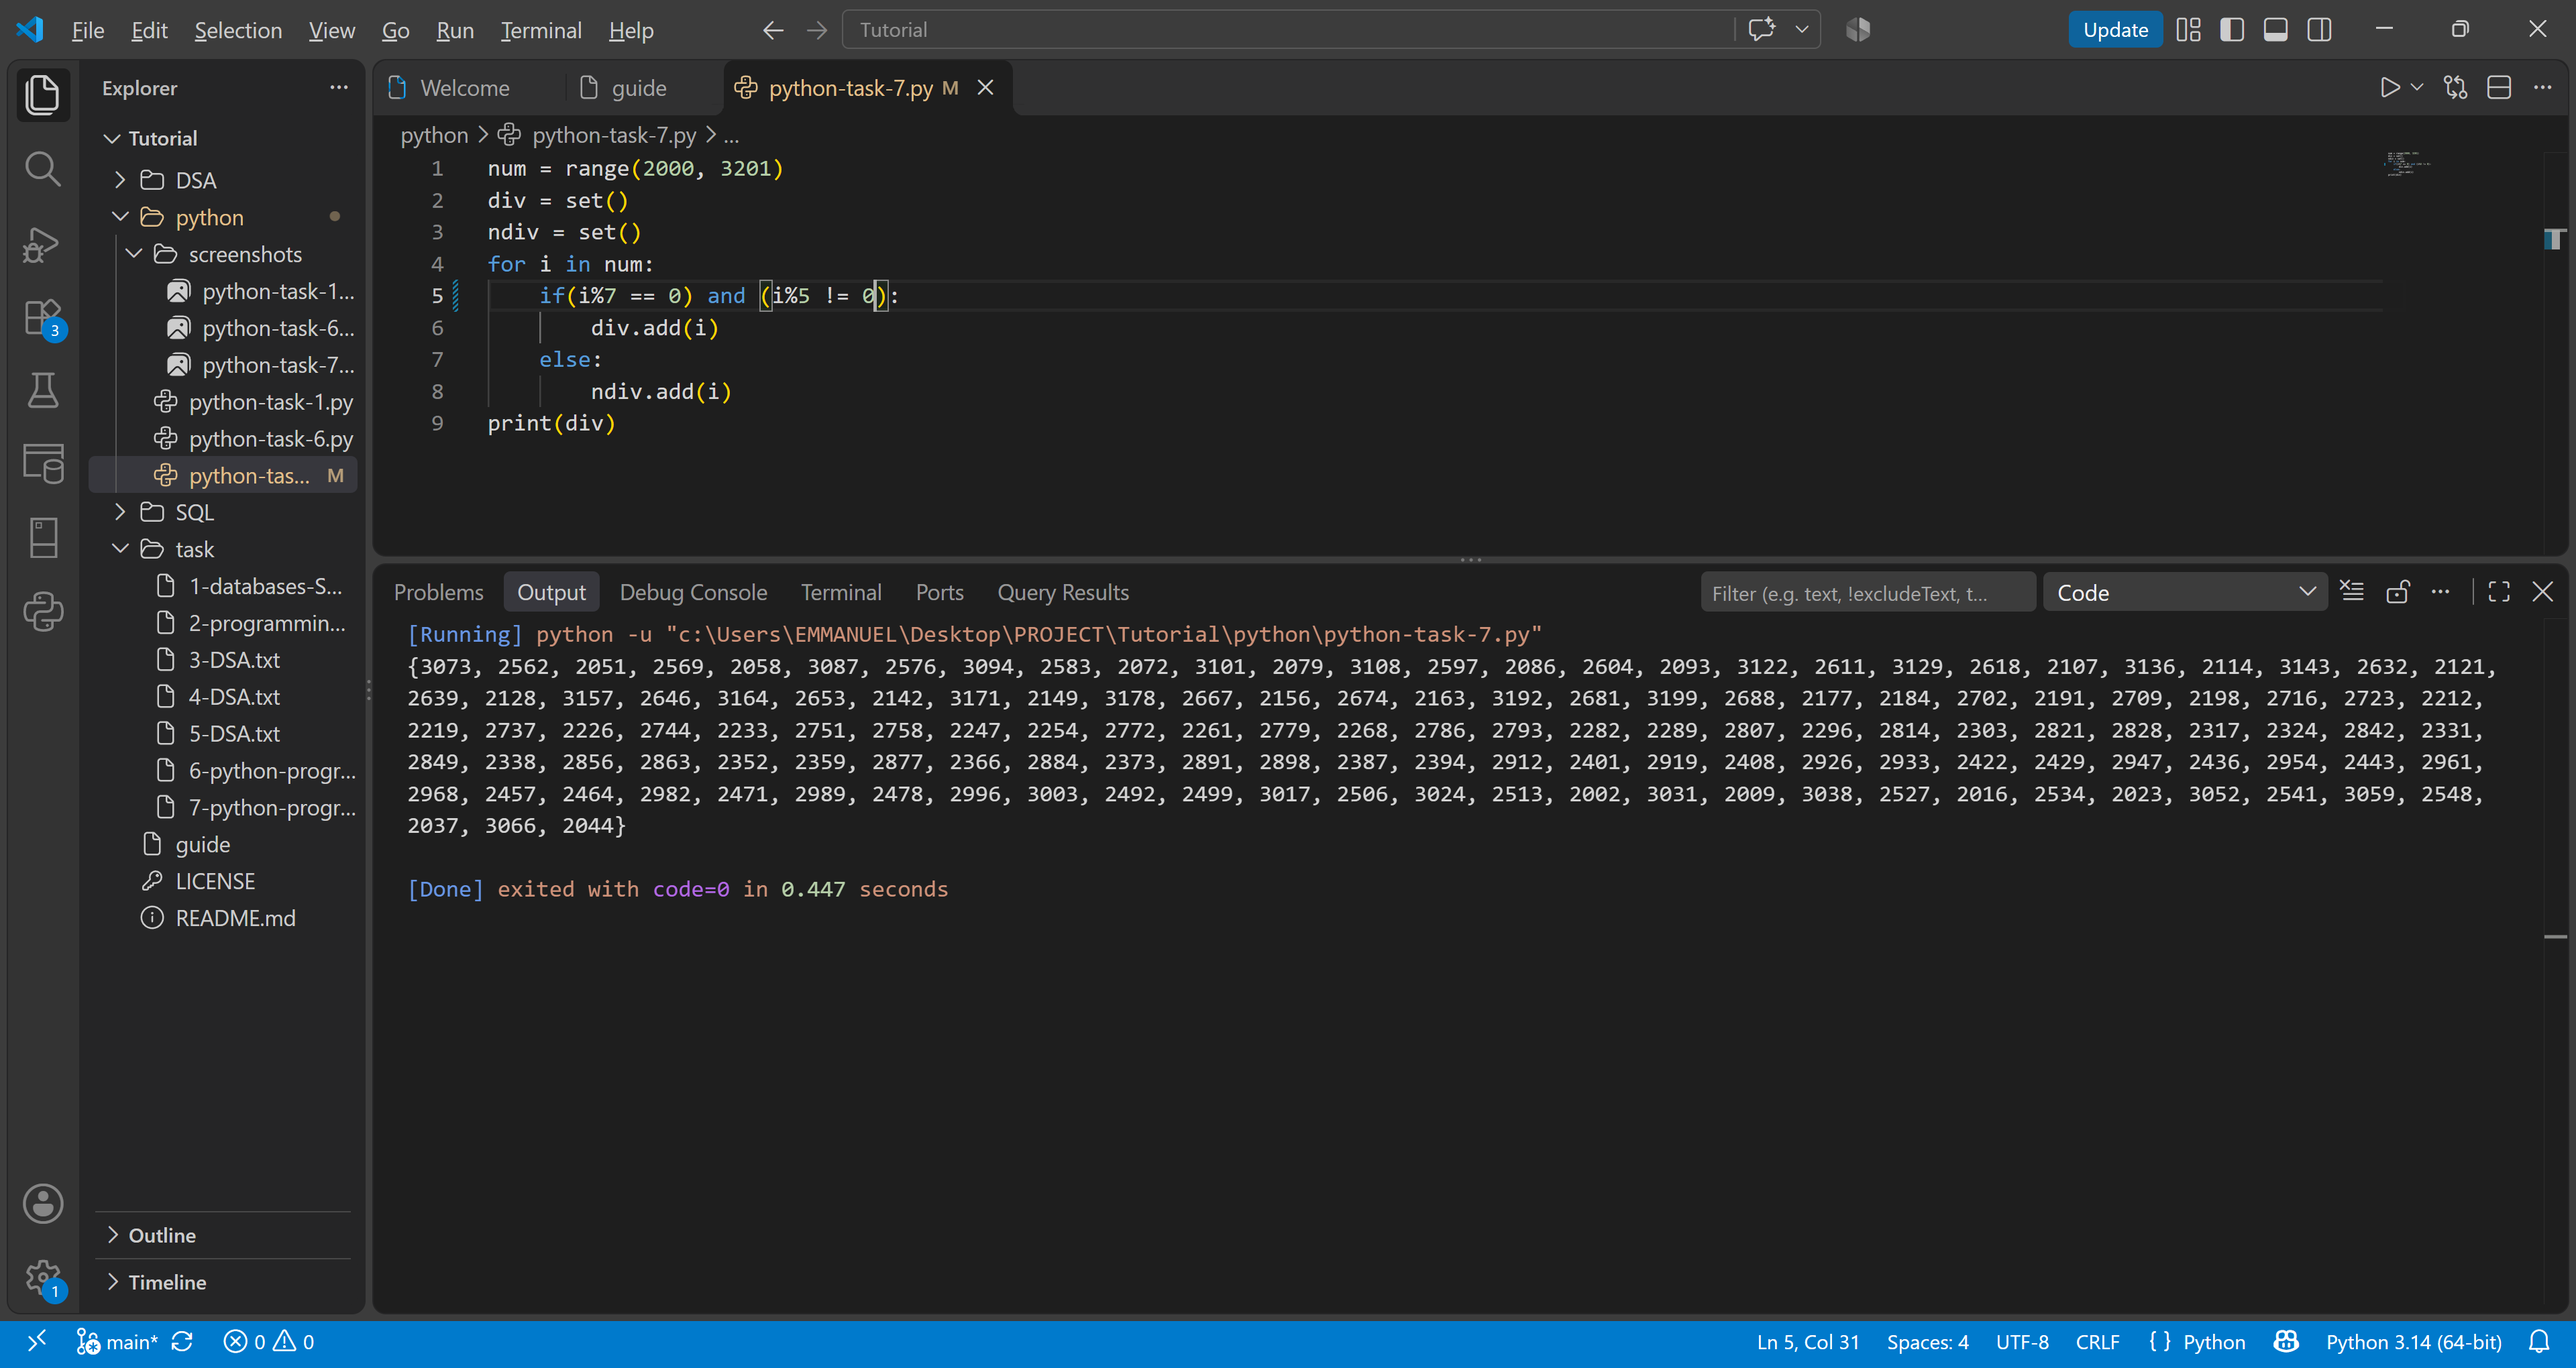
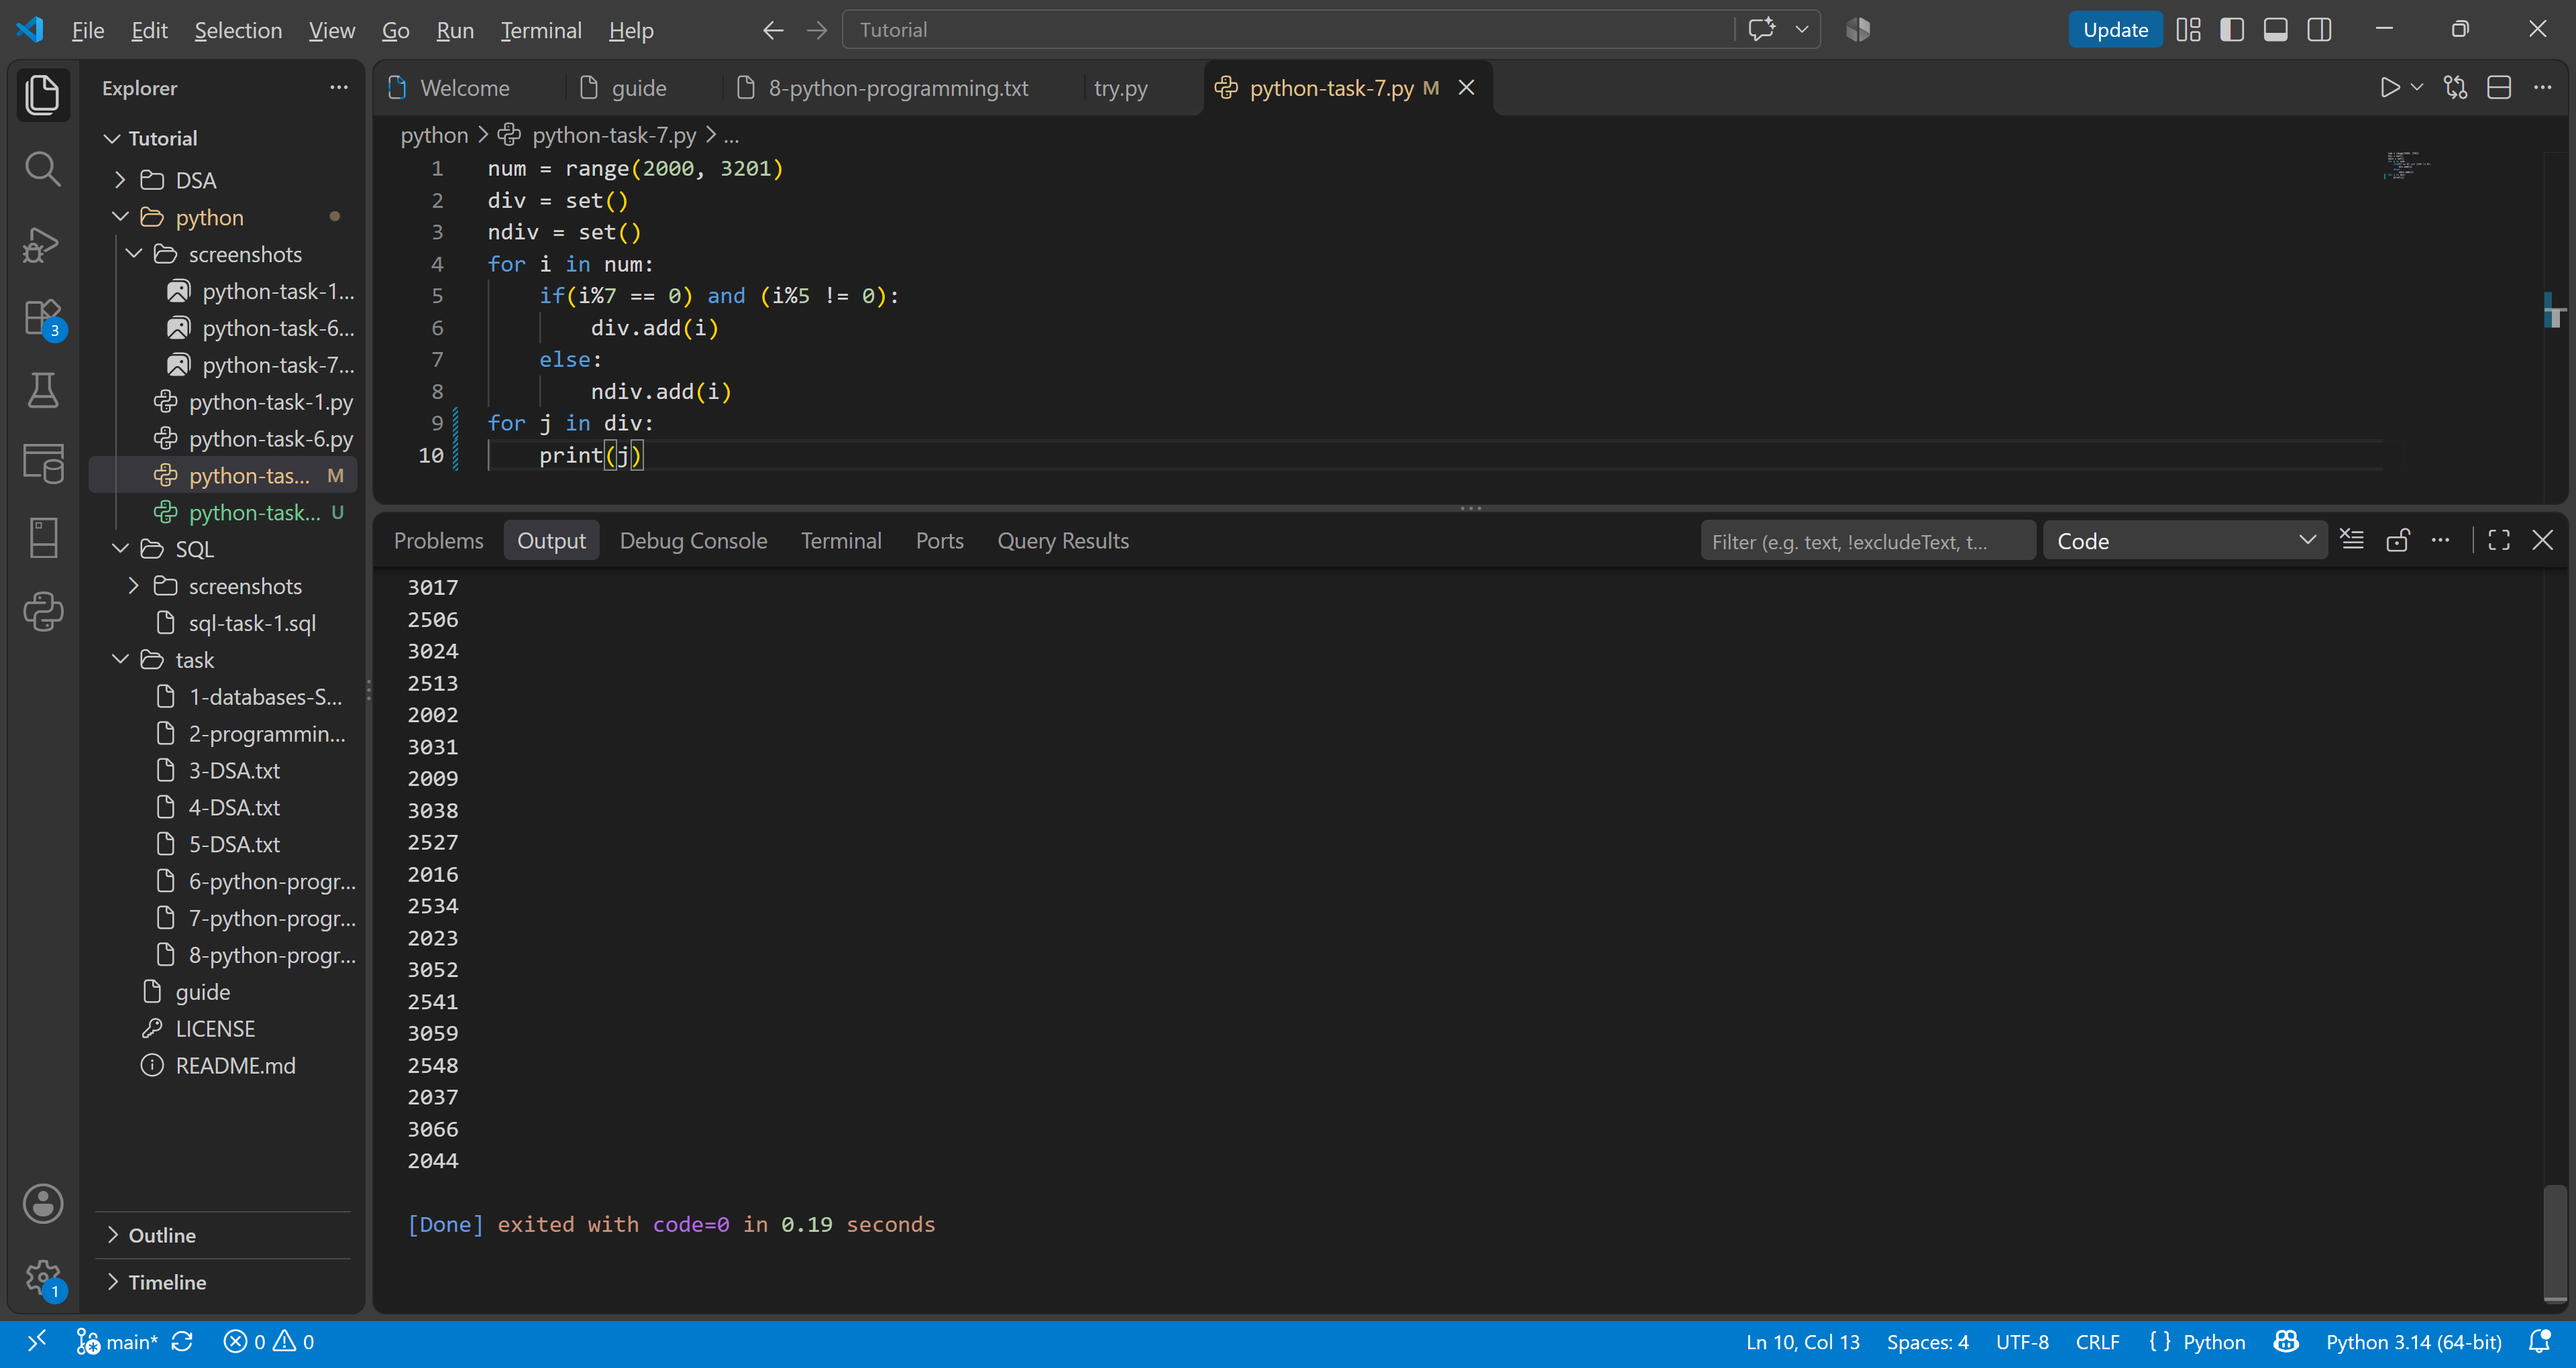
python-task8

diff --git a/python/python-task-8.py b/python/python-task-8.py
@@ -1,0 +1,9 @@
+num = range(2000, 3201)
+div = set()
+ndiv = set()
+for i in num:
+    if(i%7 == 0) and (i%5 != 0):
+        div.add(i)
+    else:
+        ndiv.add(i)
+print(div)

diff --git a/python/python-task-7.py b/python/python-task-7.py
@@ -6,4 +6,5 @@ for i in num:
         div.add(i)
     else:
         ndiv.add(i)
-print(div)
+for j in div:
+    print(j)
